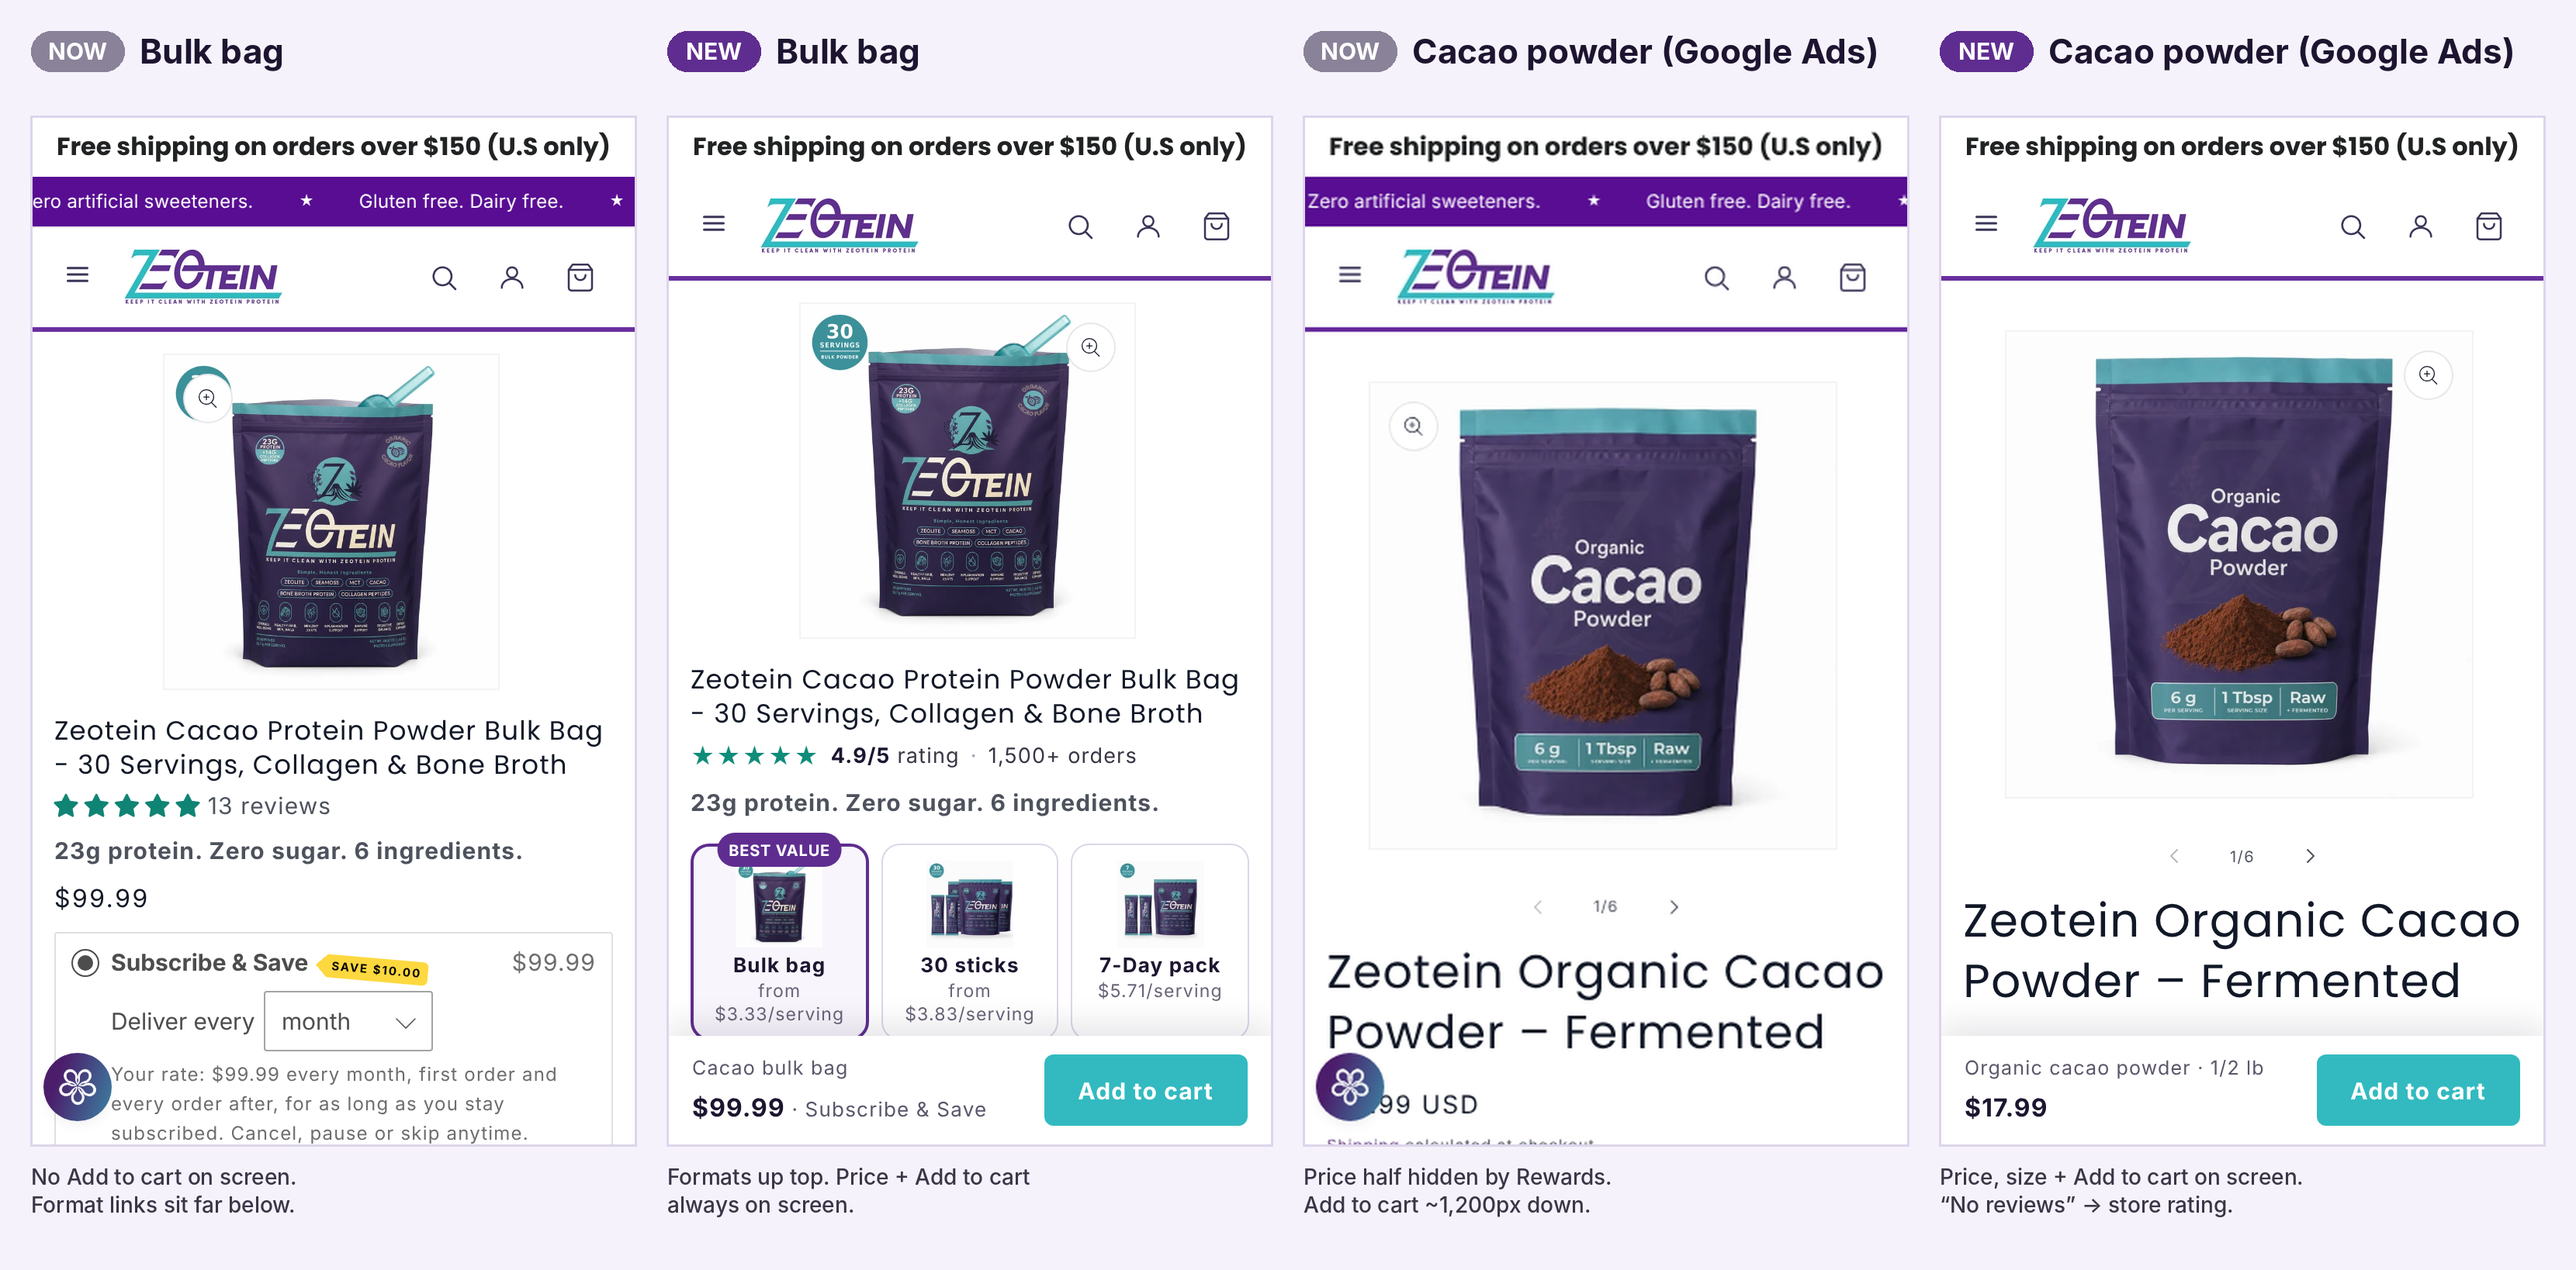
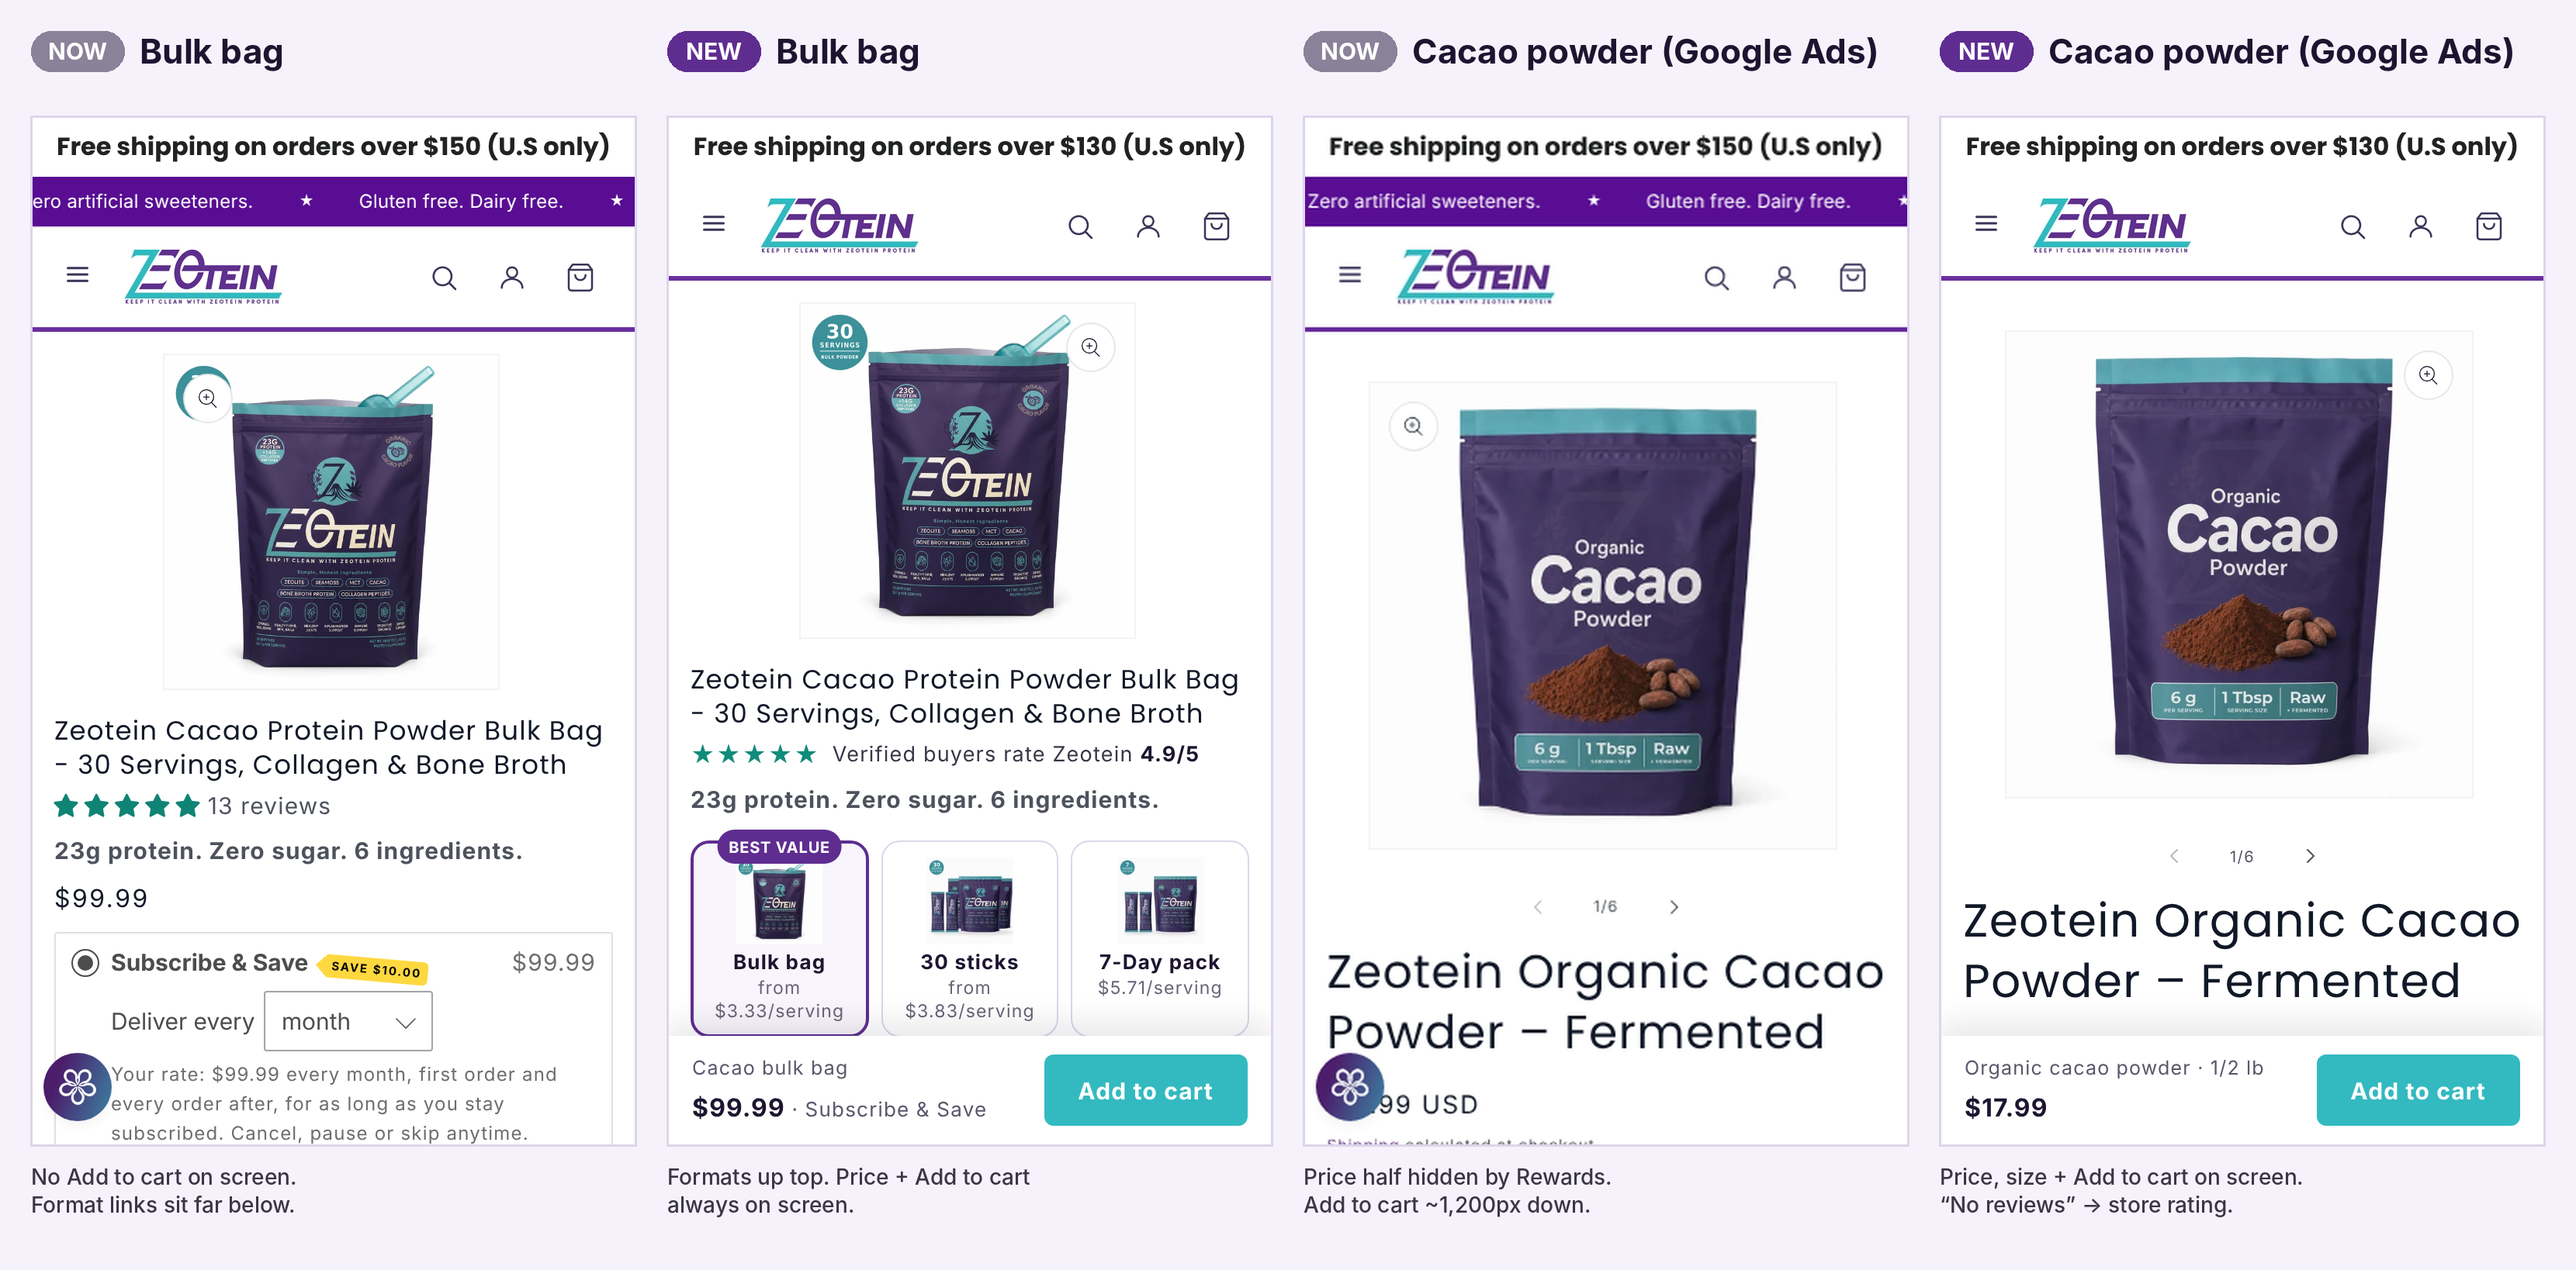
Product pages v2, round 3: live verified rating, slimmer gifts, aligned button
- Rating line reads "Verified buyers rate Zeotein 4.9/5", live from
  Judge.me's verified-buyer average (updates on its own; falls back to
  "Customers rate Zeotein" if the verified figure is missing). No order
  count.
- Starter Kit gifts shown as one slim line with small photos and the
  total value; one-time line matches.
- Quantity and Add to cart now level (theme form margin removed); Shop
  Promise badge centred and pulled in under the button.
- Single-ingredient shipping row matches today's $130 free-shipping rate.
- og:image served over https (preview theme and Black Friday theme;
  live needs the same one-word paste).
- Orbit part 2 answered in audit/findings/orbit-list-2026-11-13.md.

Claude-Session: https://claude.ai/code/session_01D28ukcRSP8zRc76PSXbZSJ

diff --git a/audit/findings/orbit-list-2026-11-13.md b/audit/findings/orbit-list-2026-11-13.md
@@ -28,3 +28,25 @@ Everything below is in the preview theme `187923202261` unless it says otherwise
 1. **Policy contradiction (legal text).** The "Cancellations" (subscription) policy that Shopify shows at checkout ends with: "Returns & Refunds: All sales are final. Due to the nature of our products, we do not accept returns or offer refunds." The Refund Policy and every product page promise a 30-day money-back guarantee on blends. Suggested replacement for that paragraph: "Returns & Refunds: Our protein blends are covered by our 30-Day Money-Back Guarantee on your first order, as described in our Refund Policy. Single-ingredient supplements, digital guides and merchandise are final sale." I'll update it on Dana's yes.
 2. **"Claim My 55% Off" (starter-kit page).** 55% only works if the free gifts count as discount: ($109.99 + $62.98 gifts − $76.99) ÷ $172.97. The price itself is 30% off the first subscription order ($76.99 vs $109.99). One-time buyers get no price cut at all, but the button says 55% for them too. That's FTC price-claim risk. Safer: "Claim 30% Off + Free Starter Kit" on subscription and "Get My Starter Kit" on one-time. Zeus owns that page, so I didn't change it.
 3. **Rafael's mockup claims to avoid.** "1445+ 5-Star Reviews" (we have about 155), "87% Sold" (fake scarcity), "4.8/5 · 1524 Sold" (unverified), "Support Your Immunity" and "Sharpen Your Focus" (outside our approved claims). His layout ideas (formats on top, gift photos, price on the button) are good and are in v2.
+
+---
+
+# Part 2: Zeus's open zeotein.com items (Nov 13, evening)
+
+**What I touched:** only the preview theme `187923202261` (snippet `zt-buybox-tidy.liquid`, five product templates, `meta-tags.liquid`) and, in the Black Friday theme `187825914069`, **only `snippets/meta-tags.liquid`**. Nothing on live: my connection can't write to the live theme. Every live change below is a paste for Orbit or Zeus.
+
+| # | Item | Call | What happened |
+|---|---|---|---|
+| 1 | Jewels checkout trust (staging 188057845973) | **Worth doing, after the policy fix** | The guarantee link and "How to cancel" under the checkout button are the strongest pieces: they help trust and auto-renewal disclosure. "Includes $62.98 in free gifts" matches the product page's "$62.98 value" (live store prices), so they agree. The "Secure checkout" lock line is fine but low impact. Don't ship until the Cancellations policy stops saying "All sales are final" (see flag 1 in part 1). |
+| 2 | Store-wide rating instead of per-product badges | **Done on the 5 key pages (preview)** | "★★★★★ Verified buyers rate Zeotein 4.9/5", read live from Judge.me's verified-buyer average (4.93 from 119 verified reviews). It updates itself, with no hard-coded number. On cacao powder it replaces the hidden 0.00/0 badge, so the #1 ad page now has a rating under the title. The rest of the product pages follow once Dana approves. |
+| 3 | Spec-sheet content for single-ingredient pages | Skip for now | Needs the supplier spec sheets as the source. Happy to build it from them. No certification or testing claims either way. |
+| 4 | JS error hardening | Skip until after Black Friday | Root causes are fixed on live and BF (I agree with Zeus's check; none on live today). A `customElements.define` guard wouldn't stop the "already declared" error anyway: that happens when the whole file loads twice, which is fixed. The `.header-wrapper` null guard is cheap but touches `global.js`. Low value right before BF. |
+| 5 | myshopify.com 301 | Agree | Nothing to do. |
+| 6 | Starter-kit page: "Claim My 55% Off" below the fold on phones; sticky bar | **Two-setting fix for Zeus** | On a 390×664 phone, the hero button sits at the bottom edge (top at 618px). The sticky bar only appears after the whole hero section scrolls away and hides while any part of the tall buy box is on screen. In my test it never showed through the first 1,400px. Fix in the theme editor, Cacao LP template, **Sticky Offer CTA** section: **Hero CSS selector** → `.hbclp__cta` and **Buy box CSS selector** → `.zt-bb2__cta`. The bar then shows whenever neither button is on screen. No code change. |
+| 7a | og:image uses http | **Fixed in preview + BF** | `snippets/meta-tags.liquid` now says `https:`. Live needs the same one-word change: in `snippets/meta-tags.liquid`, `content="http:{{ page_image` → `content="https:{{ page_image`. |
+| 7b | Title suffix " – Zeotein LLC", homepage title "Zeotein LLC" | Settings, not code | Fastest: Online Store → Preferences → Homepage title (e.g. "Zeotein Cacao Protein with Collagen & Bone Broth"). The suffix comes from the store name. Renaming "Zeotein LLC" → "Zeotein" in Settings → Store details also changes how emails and checkout show the name, so that's Dana's call. A `theme.liquid` edit can change the suffix alone if she prefers. |
+| 7c | Two H1s on the homepage | Not done | Needs `templates/index.json` (28 KB). Low SEO impact. Zeus can set the second heading's size to H2 in the theme editor. |
+| 7d | Review stars split from Product JSON-LD | Not done | Needs `main-product.liquid` or Judge.me's rich-snippet setting. Cacao powder has 0 reviews, so there's nothing to mark up yet anyway. |
+| 8 | BF banner "30% off everything" vs hero "30% off one-time orders" | Held for Dana | Flag: if subscriptions are excluded, "30% off everything" is inaccurate. Use "30% off one-time orders" in both places. |
+
+**Also noticed:** free U.S. shipping changed from $150 to **$130** today (shipping settings and the top bar). The product-page shipping row now says $130+. The amount sits in one place at the top of `zt-buybox-tidy.liquid` for the next change.

diff --git a/audit/theme-fixes/pdp-v2-2026-11-13/README.md b/audit/theme-fixes/pdp-v2-2026-11-13/README.md
@@ -19,19 +19,19 @@ In preview links, Shopify's grey preview bar sits at the bottom of the screen. T
 | Area | Change |
 |---|---|
 | Format picker | Bulk bag / 30 sticks / 7-Day tiles moved right under the title, with photo and price per serving. "Best value" on the bag. |
-| Gifts | The purple box inside Subscribe & Save is now **"Free Starter Kit with your first order"** with photos: shaker, Save-A-Scoop, 3 guides, each with its store price struck through. One-time keeps its own line. |
+| Gifts | One slim purple line inside Subscribe & Save: three small round photos + **"Free Starter Kit · $62.98 value"** / "First order: shaker, scoop + 3 guides" (sticks: $55.99, shaker + 3 guides). One-time keeps one grey line with its own photos. The value adds up the store prices of the items, live. |
 | Add to cart above the fold | A bar with price, plan and Add to cart stays on screen until the main button scrolls into view. On phones it runs full width. On desktop it floats over the photo column, so it never covers the buy box. |
-| Reviews | "★★★★★ 4.9/5 rating · 1,500+ orders" replaces the per-product count ("13 reviews"), plus one real, verified customer quote under the button. |
-| Layout | Quantity and Add to cart on one row. The duplicate price line is hidden when the subscription box shows prices. The desktop photo column narrows from "large" to "medium" so the buy box is wider, with a slightly smaller desktop title. The Rewards button and the second scrolling top bar are hidden on phones on these pages. |
+| Reviews | **"★★★★★ Verified buyers rate Zeotein 4.9/5"** replaces the per-product count ("13 reviews"). It's read live from Judge.me's verified-buyer average (4.93 from 119 verified reviews on Nov 13), so it updates on its own as reviews come in. The stars fill to the exact rating. If Judge.me ever stops providing the verified number, it falls back to "Customers rate Zeotein" with the all-reviews average, so it never claims "verified" without the data. One real, verified customer quote sits under the button. |
+| Layout | Quantity and Add to cart on one row, same height and level (the theme's 25px form margin was pushing the button down). Shop Promise badge centred under the row. The duplicate price line is hidden when the subscription box shows prices. The desktop photo column narrows from "large" to "medium" so the buy box is wider, with a slightly smaller desktop title. The Rewards button and the second scrolling top bar are hidden on phones on these pages. |
 | Trust row | "30-day guarantee on your first order" + "Ships in 1–2 business days" (the 7-Day packs are covered, per Dana's rule). |
 
 ### Single-ingredient pages (cacao powder, zeolite)
 | Area | Change |
 |---|---|
-| Reviews | "No reviews" / "1 review" badge hidden. Shows "★★★★★ 4.9/5 **store** rating · 1,500+ orders". It's labelled "store" because these products have few reviews of their own. |
+| Reviews | "No reviews" / "1 review" badge hidden. Shows the same live "★★★★★ Verified buyers rate Zeotein 4.9/5". It names the brand, so it's clear it isn't this product's own count. |
 | Add to cart above the fold | Same bar, with the chosen size and price ("Organic cacao powder · 1/2 lb · $17.99"). It follows the size picker. |
 | Order | Add to cart now sits right under the size picker. Before, it came after the serving chips, about 1,200px down on a phone. |
-| Shipping | The two text lines became one row: "Free U.S. shipping on orders $150+" + "Ships in 1–2 business days". No guarantee wording: single-ingredient powders are final sale. |
+| Shipping | The two text lines became one row: "Free U.S. shipping on orders $130+" + "Ships in 1–2 business days". The free-shipping rate changed from $150 to $130 on Nov 13, and the row matches it. The amount is set in one place at the top of the snippet. No guarantee wording: single-ingredient powders are final sale. |
 
 ### Things deliberately left alone
 - Prices, Seal plans, discounts, product titles, handles.
@@ -54,6 +54,7 @@ In preview links, Shopify's grey preview bar sits at the bottom of the screen. T
 | `files/templates/product.cacao-7-day.json` | 7-Day template |
 | `files/templates/product.organic-cacao.json` | Cacao powder |
 | `files/templates/product.zeolite.json` | Zeolite |
+| `files/snippets/meta-tags.liquid` | SEO: share image (og:image) uses https instead of http. **Already written to the Black Friday theme.** Live needs the same one-line change. |
 
 The live copies of all five templates are unchanged since Nov 5 (same checksums as the preview copies), so whole-file replacement is safe. Old blocks are kept as disabled blocks, so any of them can be switched back on in the theme editor.
 
@@ -63,6 +64,7 @@ The live copies of all five templates are unchanged since Nov 5 (same checksums 
 - Cart: Subscribe & Save (monthly) from the bar adds "1 bag every 30 days" at $99.99. One-time from the bar adds $109.99 with no plan. The test cart was cleared.
 - The size picker updates the bar ("1 lb · $28.99" cacao powder, "1 lb · $64.99" zeolite).
 - Both featured reviews are verified buyers in Judge.me (Elsie U., bulk bag. Melissa M., 7-Day).
+- Round 3 (Nov 13, evening): rating line reads "Verified buyers rate Zeotein 4.9/5" on all five pages. Quantity box and button are both 46px and level. Gift line is two lines. Cacao powder shipping row reads $130+. The preview and Black Friday themes both serve `og:image` over https.
 - Compliance scrub: no health, detox or disease claims added. The guarantee only appears on blend pages.
 
 ## How it goes live (after Dana's yes)
